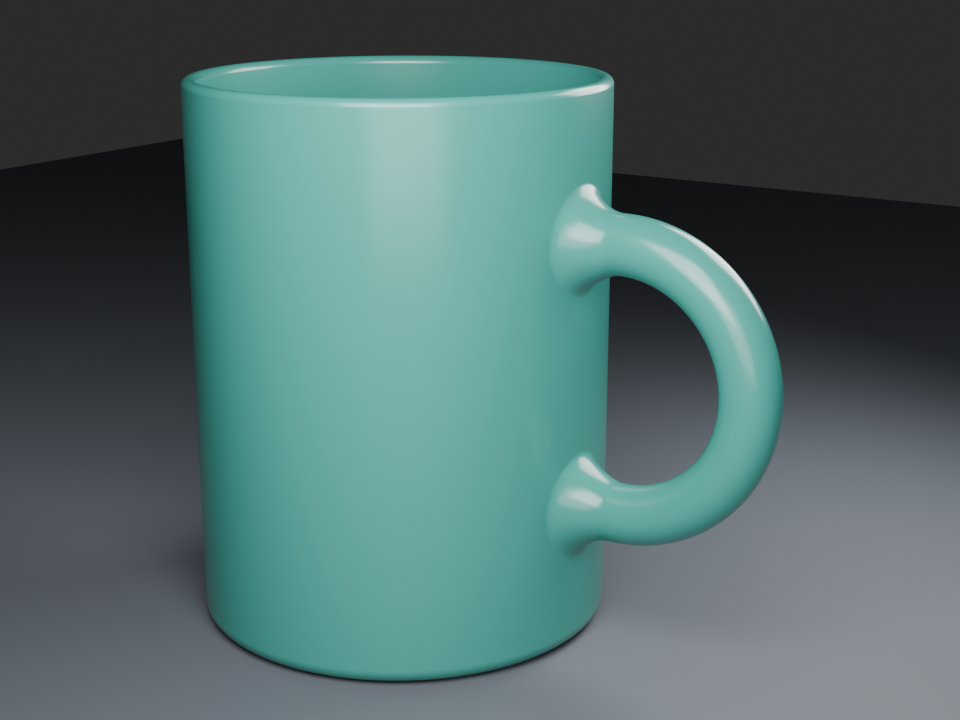
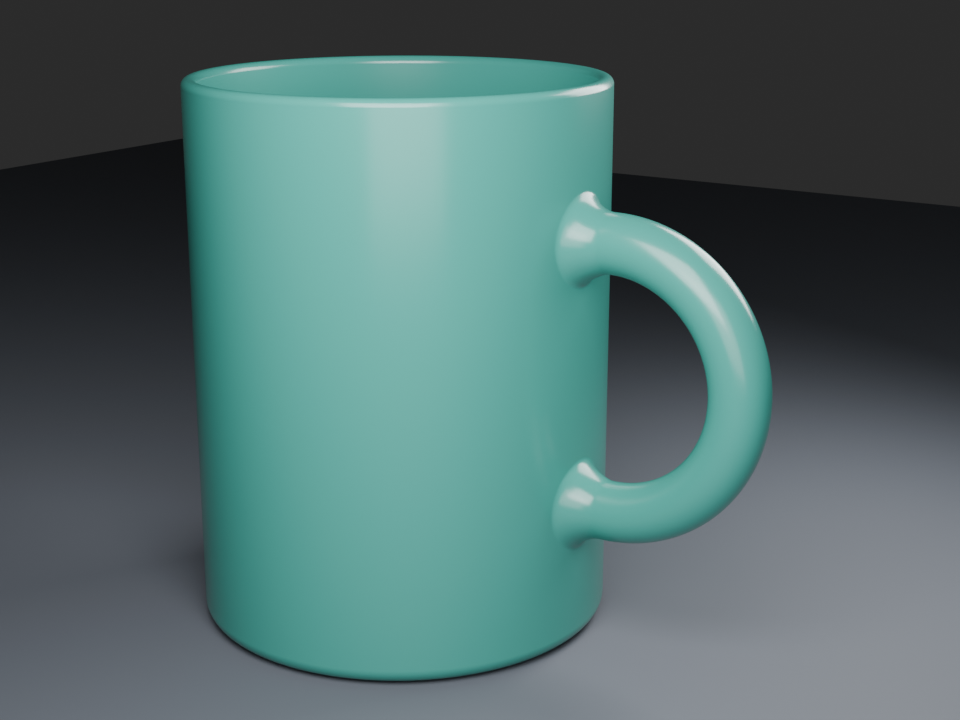
Refine glazed cup attachment proportions from controlled renders

Changed region(s): [[0.6562, 0.3056, 0.8125, 0.7639], [0.5938, 0.6111, 0.7188, 0.7028], [0.5938, 0.2444, 0.6562, 0.3361]]

diff --git a/deepblend/docs/improvement-plan.md b/deepblend/docs/improvement-plan.md
@@ -606,3 +606,13 @@
 - 预览来自当前包内 SceneSpec 经公开 Host 的主视角实际渲染，960×720、128 samples；只移除 PNG 元数据，独立解码确认像素完全相同。另生成根部、杯内及三个灰模视角供检查。
 - 浏览器验收改为实际画廊选择、修改参数、指针创建，再检查毫米编辑、非法尺寸、重新加载和旧版本文件保护。本地真实 Chrome/Host/Blender 13/13 通过，完整契约 102/102 文件、976 个 node:test 用例，零失败/跳过；Host 包清单包含杯体四个固定文件。首次浏览器测试等待错误页面标记而超时，保留失败日志，改为等待实际预览后重跑通过。本轮未重新运行全部 24 套验收；对应提交 CI 结果单独记录。
 - 本轮证据位于 `.deepblend/quality/glazed-cup-r24/`。根部造型仍有改进空间，美术认可、外部创作体验、作者复用和完整发布范围保持未完成。
+
+### 第二十五轮：杯体连接轮廓的实际对照
+
+- 使用同一实际模板 checkpoint 比较原连接与三组收紧尺寸，固定材质、摄影灯、相机、帧、960×720、128 samples、CPU seed 0 和非自适应采样。候选逐一通过真实构造器的网格相交、封闭性和法线检查，原 checkpoint 保持不变。
+- 查看主视角和根部的八张材质图，并对原连接与选中方案使用相同不透明灰模覆盖。采用连接半径 9 mm、长度 6 mm，减弱 10.5 mm/8 mm 原设计的外扩；5.5 mm 把手截面、杯身尺寸和材质摄影保持一致。这是模板的设计调整，不改变公开生成器缺省值、旧项目或曲面构造算法。
+- 从候选 SceneSpec 经公开 Host 重新创建与渲染主视角、根部、杯内的 beauty/clay 六图；模板场景、预览和内容摘要一起更新并同步发行副本。预览仅移除元数据，解码像素保持一致。
+- 独立重开候选公开 checkpoint：37,332 个面，无开放边或非流形边，Euler 0、正体积，实际解析角点法线有效。新造型的几何摘要有意不同于原设计；原设计仍作为公开缺省回归夹具。
+- 实验脚本首轮误用构造器参数顺序，原设计两图完成后候选报错；保留失败脚本、日志和图，修正后在新目录重跑。验证结果以本轮报告及对应提交 CI 为准，不沿用前轮检查替代本轮。
+- 本轮完整契约 102/102 文件、1,917 项自计断言、976 个 node:test 用例，零失败/跳过；真实浏览器 13/13 通过并检查新版连接尺寸。独立在同一运行时重开确认杯身圆润截面顶点、材质、摄影灯及相机逐项不变，选中实验与公开创建的网格/UV/法线逐项一致。未重跑完整 24 套验收，阶段提交 CI 单独核验。
+- 证据位于 `.deepblend/quality/cup-contour-r25/`。整体美术、真人创作、外部作者复用和发布验收仍未完成。
